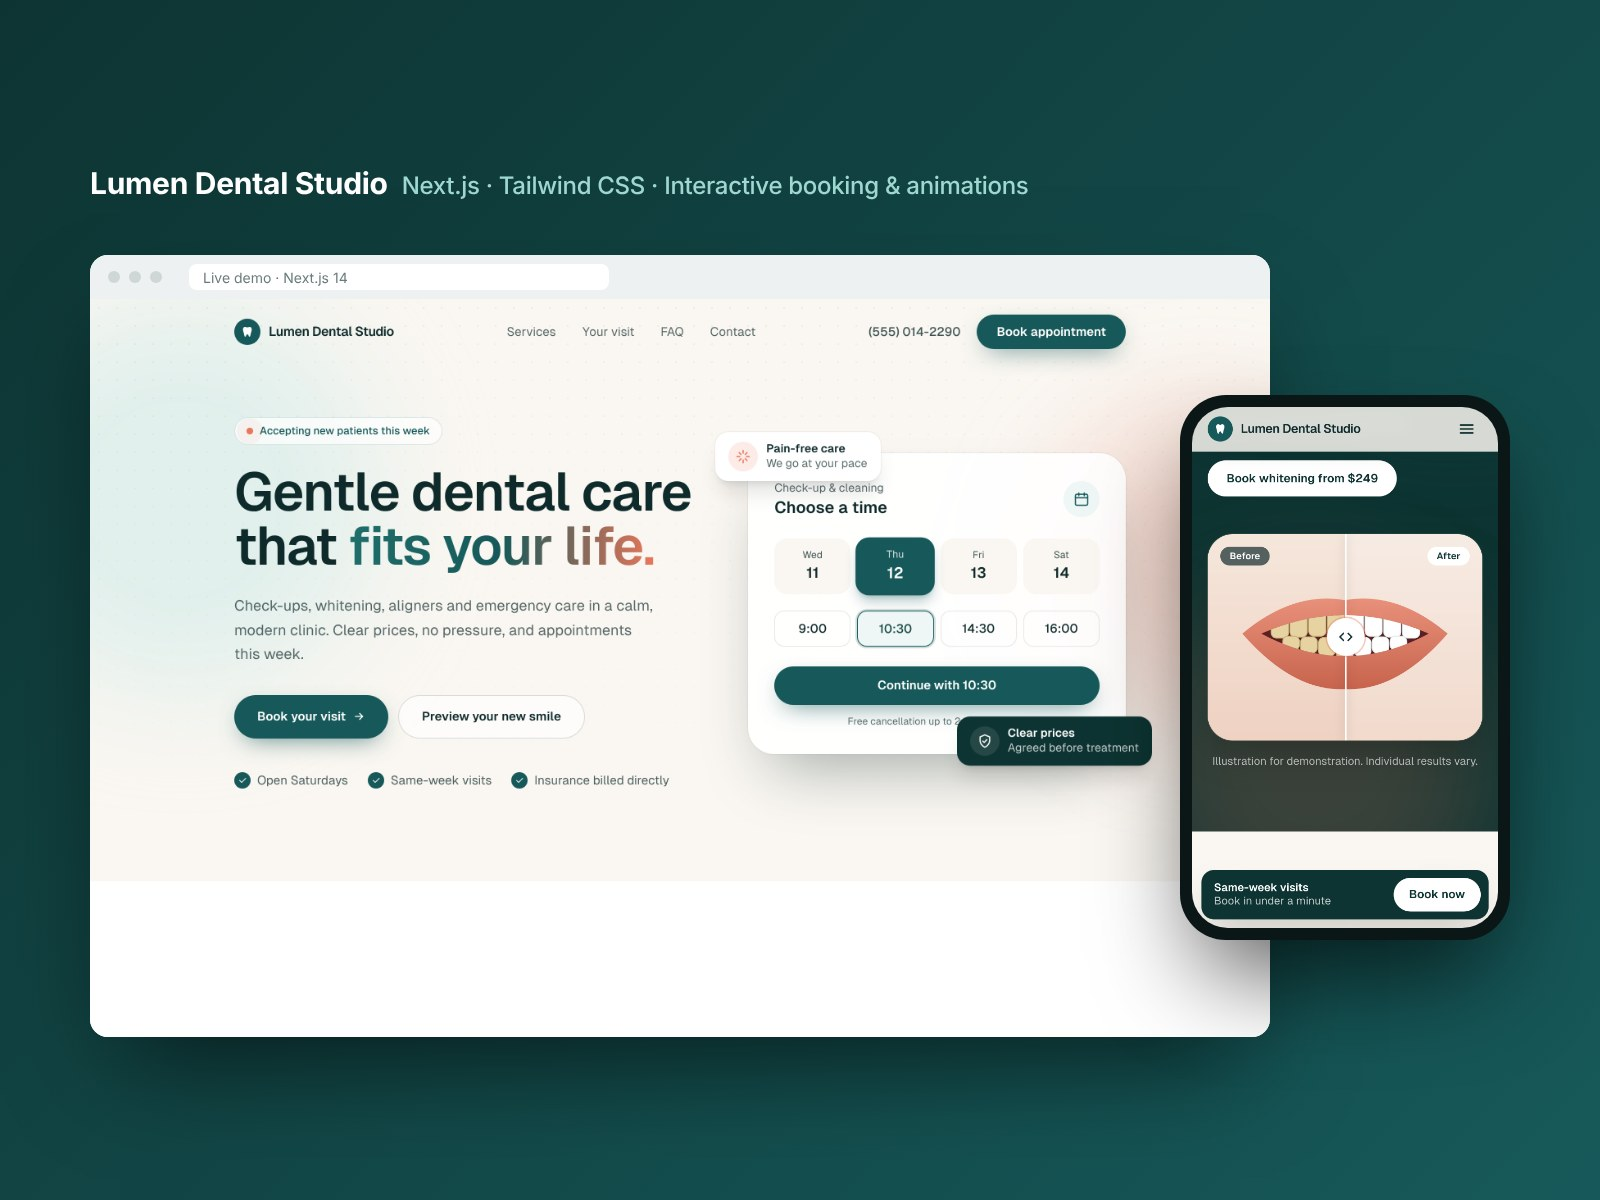
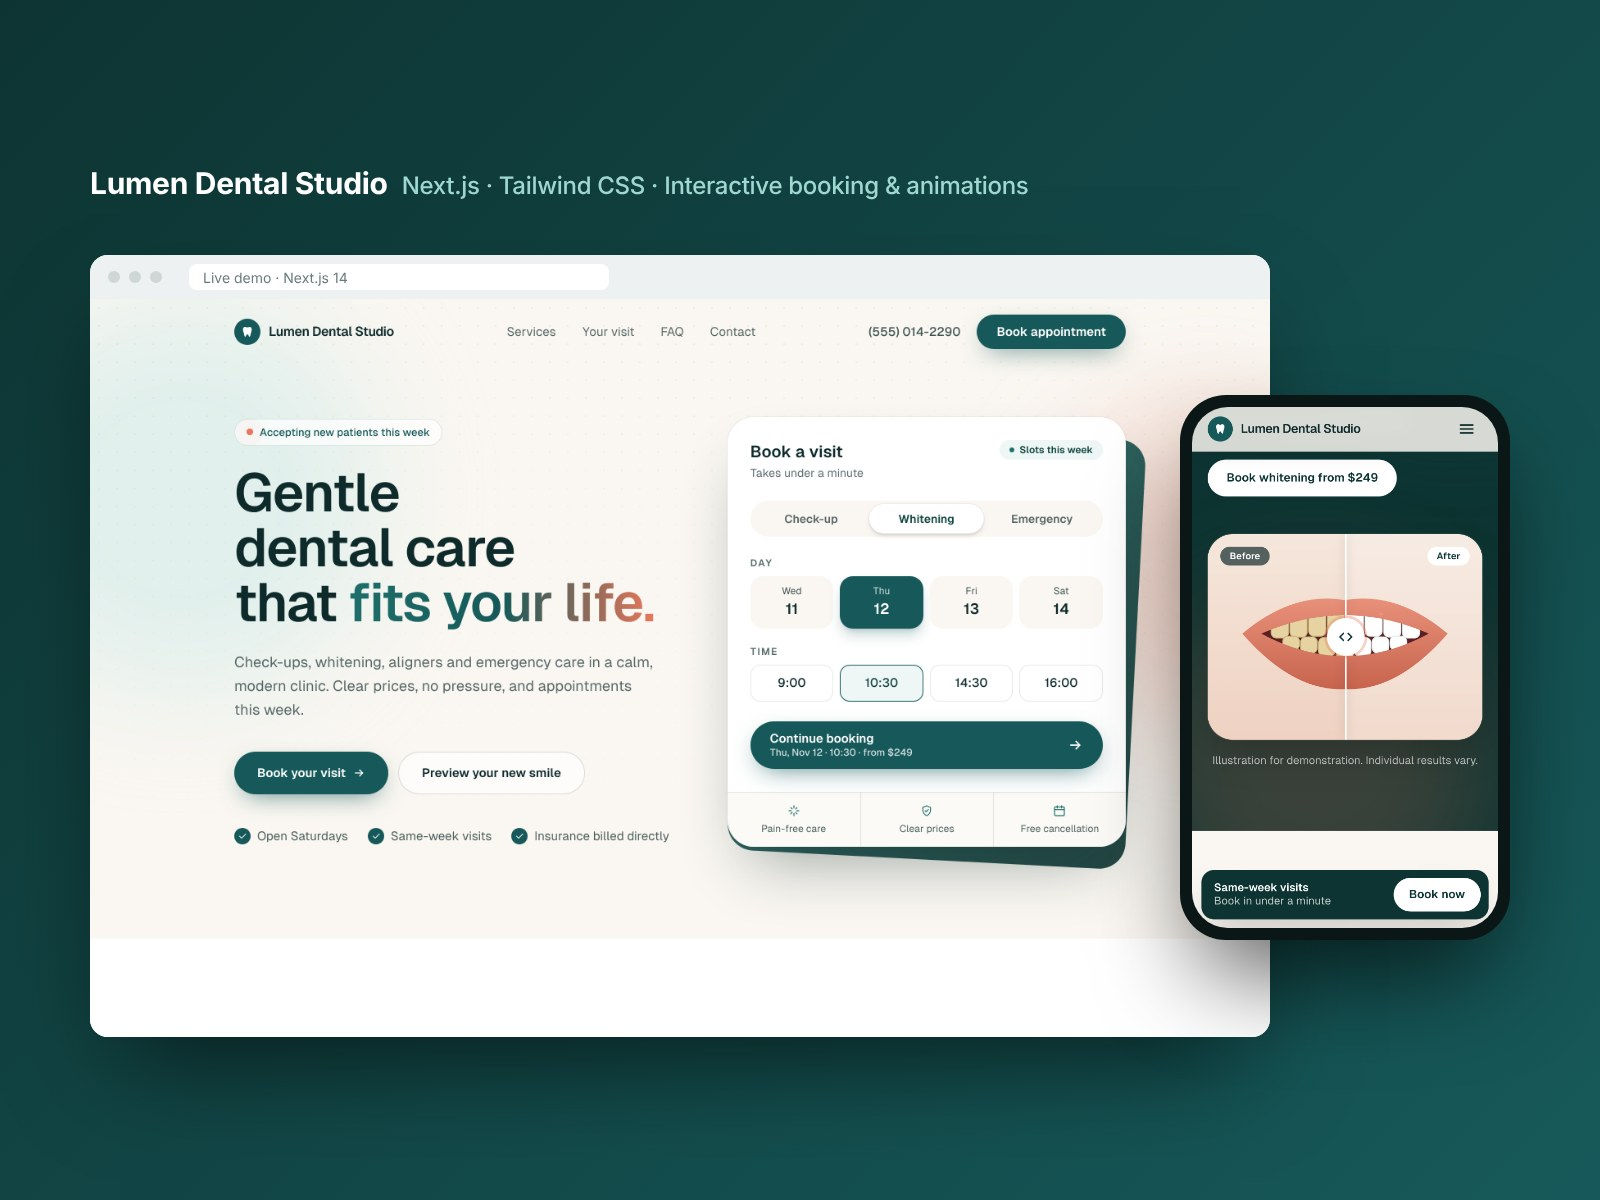
Redesign hero booking widget and fix tablet layout
- Replace floating badges that covered card content with an in-card
  trust row; add a service switcher with sliding highlight
- Pre-select the earliest slot so the call to action is always usable,
  with a live summary of day, time and starting price
- Sync widget choices (service, date, time) into the booking form
- Switch to the mobile menu and single-column hero below 1024px to
  avoid a cramped header on tablets and small laptops

Claude-Session: https://claude.ai/code/session_01AkM13mpmEo6ZpvCg3nkfXM

diff --git a/src/components/Hero.tsx b/src/components/Hero.tsx
@@ -1,7 +1,7 @@
 "use client";
 import { useEffect, useState } from "react";
 import { Icon } from "./Icon";
-import { slots } from "@/lib/content";
+import { services, slots } from "@/lib/content";
 
 function nextDays(n: number) {
   const out: Date[] = [];
@@ -16,22 +16,38 @@ function nextDays(n: number) {
 const isoLocal = (d: Date) =>
   `${d.getFullYear()}-${String(d.getMonth() + 1).padStart(2, "0")}-${String(d.getDate()).padStart(2, "0")}`;
 
+const quickServices = ["checkup", "whitening", "emergency"] as const;
+const shortName: Record<string, string> = { checkup: "Check-up", whitening: "Whitening", emergency: "Emergency" };
+
 export function Hero() {
   const [days, setDays] = useState<Date[]>([]);
   const [day, setDay] = useState(0);
-  const [slot, setSlot] = useState<string | null>(null);
-  useEffect(() => setDays(nextDays(4)), []);
+  const [svc, setSvc] = useState<(typeof quickServices)[number]>("checkup");
   const daySlots = slots.filter((_, i) => (i + day) % 4 !== 3);
+  const [slot, setSlot] = useState<string>(daySlots[0]);
 
-  const pick = (s: string) => {
-    setSlot(s);
+  useEffect(() => setDays(nextDays(4)), []);
+
+  // keep the booking form in sync with the widget
+  useEffect(() => {
     const d = days[day];
     if (!d) return;
-    window.dispatchEvent(new CustomEvent("prefill-slot", { detail: { date: isoLocal(d), time: s } }));
+    window.dispatchEvent(new CustomEvent("prefill-slot", { detail: { date: isoLocal(d), time: slot, service: svc } }));
+  }, [days, day, slot, svc]);
+
+  const chooseDay = (i: number) => {
+    setDay(i);
+    const next = slots.filter((_, j) => (j + i) % 4 !== 3);
+    if (!next.includes(slot)) setSlot(next[0]);
   };
 
+  const svcIndex = quickServices.indexOf(svc);
+  const price = services.find((x) => x.id === svc)?.from;
+  const d = days[day];
+  const dateLabel = d ? d.toLocaleDateString("en-US", { weekday: "short", day: "numeric", month: "short" }) : "";
+
   return (
-    <section id="top" className="relative -mt-16 overflow-x-clip pt-16 md:-mt-20 md:pt-20">
+    <section id="top" className="relative -mt-16 overflow-x-clip pt-16 lg:-mt-20 lg:pt-20">
       {/* animated background */}
       <div className="pointer-events-none absolute inset-0 -z-10" aria-hidden="true">
         <div className="animate-blob absolute -left-32 top-10 h-[28rem] w-[28rem] rounded-full bg-teal-100/70 blur-3xl" />
@@ -39,7 +55,7 @@ export function Hero() {
         <div className="absolute inset-0 bg-[radial-gradient(rgba(15,42,43,.07)_1px,transparent_1px)] [background-size:22px_22px] [mask-image:linear-gradient(to_bottom,black,transparent_85%)]" />
       </div>
 
-      <div className="container-site grid items-center gap-14 pb-20 pt-10 md:grid-cols-[1.1fr_.9fr] md:gap-16 md:pb-28 md:pt-16">
+      <div className="container-site grid items-center gap-14 pb-20 pt-10 lg:grid-cols-[1.05fr_.95fr] lg:gap-16 lg:pb-28 lg:pt-16">
         <div>
           <p className="animate-rise inline-flex items-center gap-2 rounded-full border border-teal-600/15 bg-white/70 px-3.5 py-1.5 text-[13px] font-medium text-teal-700 backdrop-blur">
             <span className="relative flex h-2 w-2">
@@ -74,62 +90,91 @@ export function Hero() {
           </ul>
         </div>
 
-        <div className="animate-rise relative" style={{ "--d": "250ms" } as React.CSSProperties}>
-          {/* floating chips */}
-          <div className="animate-float absolute -left-4 -top-6 z-10 hidden items-center gap-2.5 rounded-2xl bg-white px-4 py-3 shadow-xl ring-1 ring-ink/5 sm:flex md:-left-10" style={{ "--d": "-2s" } as React.CSSProperties}>
-            <span className="grid h-9 w-9 place-items-center rounded-full bg-coral/15 text-coral"><Icon name="sparkle" className="h-5 w-5" /></span>
-            <div className="text-sm leading-tight"><p className="font-semibold">Pain-free care</p><p className="text-ink/70">We go at your pace</p></div>
-          </div>
-          <div className="animate-float absolute -bottom-6 -right-3 z-10 hidden items-center gap-2.5 rounded-2xl bg-teal-900 px-4 py-3 text-white shadow-xl sm:flex md:-right-8">
-            <span className="grid h-9 w-9 place-items-center rounded-full bg-white/10"><Icon name="shield" className="h-5 w-5" /></span>
-            <div className="text-sm leading-tight"><p className="font-semibold">Clear prices</p><p className="text-white/75">Agreed before treatment</p></div>
-          </div>
-
-          <div className="relative rounded-[2rem] bg-white/90 p-6 shadow-[0_40px_80px_-30px_rgba(15,42,43,.4)] ring-1 ring-ink/5 backdrop-blur sm:p-8">
-            <div className="flex items-center justify-between">
-              <div>
-                <p className="text-sm text-ink/70">Check-up &amp; cleaning</p>
-                <p className="text-xl font-semibold">Choose a time</p>
+        {/* booking widget */}
+        <div className="animate-rise relative mx-auto w-full max-w-[30rem] lg:max-w-none" style={{ "--d": "250ms" } as React.CSSProperties}>
+          <div className="absolute inset-0 translate-x-1.5 translate-y-3 rotate-[2deg] sm:translate-x-3 sm:translate-y-4 sm:rotate-[3deg] rounded-[2rem] bg-gradient-to-br from-teal-600 to-teal-900 opacity-90" aria-hidden="true" />
+          <div className="relative overflow-hidden rounded-[2rem] bg-white shadow-[0_40px_80px_-30px_rgba(15,42,43,.45)] ring-1 ring-ink/5">
+            <div className="p-6 sm:p-7">
+              <div className="flex items-start justify-between gap-4">
+                <div>
+                  <p className="text-xl font-semibold">Book a visit</p>
+                  <p className="mt-0.5 text-sm text-ink/70">Takes under a minute</p>
+                </div>
+                <span className="inline-flex items-center gap-1.5 rounded-full bg-teal-50 px-3 py-1 text-xs font-semibold text-teal-800">
+                  <span className="h-1.5 w-1.5 rounded-full bg-teal-600" />
+                  Slots this week
+                </span>
               </div>
-              <span className="grid h-11 w-11 place-items-center rounded-full bg-teal-50 text-teal-700"><Icon name="calendar" /></span>
+
+              {/* service switcher */}
+              <div className="relative mt-6 grid grid-cols-3 rounded-full bg-cream p-1" role="radiogroup" aria-label="Service">
+                <span
+                  className="absolute inset-y-1 left-1 w-[calc((100%-0.5rem)/3)] rounded-full bg-white shadow-md ring-1 ring-ink/5 transition-transform duration-300 ease-out"
+                  style={{ transform: `translateX(${svcIndex * 100}%)` }}
+                  aria-hidden="true"
+                />
+                {quickServices.map((id) => (
+                  <button
+                    key={id}
+                    role="radio"
+                    aria-checked={svc === id}
+                    onClick={() => setSvc(id)}
+                    className={`relative z-10 rounded-full py-2 text-sm font-semibold transition-colors duration-300 ${svc === id ? "text-teal-800" : "text-ink/70 hover:text-ink"}`}
+                  >
+                    {shortName[id]}
+                  </button>
+                ))}
+              </div>
+
+              <p className="mt-6 text-xs font-semibold uppercase tracking-[0.12em] text-ink/70">Day</p>
+              <div className="mt-2 grid grid-cols-4 gap-2" role="radiogroup" aria-label="Day">
+                {(days.length ? days : Array.from({ length: 4 }, () => null)).map((dd, i) => (
+                  <button
+                    key={i}
+                    role="radio"
+                    aria-checked={day === i}
+                    onClick={() => chooseDay(i)}
+                    className={`rounded-2xl px-1 py-2.5 text-center transition duration-300 ${day === i ? "bg-teal-700 text-white shadow-lg shadow-teal-700/25" : "bg-cream hover:-translate-y-0.5 hover:bg-teal-50"}`}
+                  >
+                    <span className="block text-xs opacity-80">{dd ? dd.toLocaleDateString("en-US", { weekday: "short" }) : " "}</span>
+                    <span className="block text-lg font-semibold">{dd ? dd.getDate() : " "}</span>
+                  </button>
+                ))}
+              </div>
+
+              <p className="mt-5 text-xs font-semibold uppercase tracking-[0.12em] text-ink/70">Time</p>
+              <div key={day} className="mt-2 grid grid-cols-4 gap-2" role="radiogroup" aria-label="Time">
+                {daySlots.map((s, i) => (
+                  <button
+                    key={s}
+                    role="radio"
+                    aria-checked={slot === s}
+                    onClick={() => setSlot(s)}
+                    style={{ "--d": `${i * 40}ms` } as React.CSSProperties}
+                    className={`animate-rise rounded-xl border py-2.5 text-[15px] font-medium transition duration-200 ${slot === s ? "border-teal-700 bg-teal-50 text-teal-800" : "border-ink/10 hover:-translate-y-0.5 hover:border-teal-600"}`}
+                  >
+                    {s}
+                  </button>
+                ))}
+              </div>
+
+              <a href="#book" className="group btn-primary mt-6 w-full justify-between px-6">
+                <span className="flex flex-col items-start leading-tight">
+                  <span className="text-[15px]">Continue booking</span>
+                  <span className="text-xs font-medium text-white/80" aria-live="polite">{dateLabel ? `${dateLabel} · ${slot} · from $${price}` : " "}</span>
+                </span>
+                <svg viewBox="0 0 24 24" className="h-5 w-5 transition-transform group-hover:translate-x-1" fill="none" stroke="currentColor" strokeWidth={2} aria-hidden="true"><path d="M5 12h14M13 6l6 6-6 6" /></svg>
+              </a>
             </div>
 
-            <div className="mt-6 grid grid-cols-4 gap-2" role="tablist" aria-label="Day">
-              {(days.length ? days : Array.from({ length: 4 }, () => null)).map((d, i) => (
-                <button
-                  key={i}
-                  role="tab"
-                  aria-selected={day === i}
-                  onClick={() => { setDay(i); setSlot(null); }}
-                  className={`rounded-2xl px-1 py-3 text-center transition duration-300 ${day === i ? "scale-[1.04] bg-teal-700 text-white shadow-lg shadow-teal-700/30" : "bg-cream hover:-translate-y-0.5 hover:bg-teal-50"}`}
-                >
-                  <span className="block text-xs opacity-80">{d ? d.toLocaleDateString("en-US", { weekday: "short" }) : " "}</span>
-                  <span className="block text-lg font-semibold">{d ? d.getDate() : " "}</span>
-                </button>
+            <ul className="grid grid-cols-3 divide-x divide-ink/10 border-t border-ink/10 bg-cream/60 text-center text-xs text-ink/75">
+              {[["sparkle", "Pain-free care"], ["shield", "Clear prices"], ["calendar", "Free cancellation"]].map(([icon, label]) => (
+                <li key={label} className="flex flex-col items-center gap-1.5 px-2 py-3.5">
+                  <Icon name={icon} className="h-4 w-4 text-teal-600" />
+                  {label}
+                </li>
               ))}
-            </div>
-
-            <div key={day} className="mt-5 grid grid-cols-2 gap-2 sm:grid-cols-4">
-              {daySlots.map((s, i) => (
-                <button
-                  key={s}
-                  onClick={() => pick(s)}
-                  style={{ "--d": `${i * 50}ms` } as React.CSSProperties}
-                  className={`animate-rise rounded-xl border py-2.5 text-[15px] font-medium transition duration-200 ${slot === s ? "border-teal-700 bg-teal-50 text-teal-800 ring-2 ring-teal-700/20" : "border-ink/10 hover:-translate-y-0.5 hover:border-teal-600 hover:shadow-md"}`}
-                >
-                  {s}
-                </button>
-              ))}
-            </div>
-
-            <a
-              href="#book"
-              className={`btn-primary mt-6 w-full ${slot ? "" : "pointer-events-none !bg-ink/10 !text-ink/70 !shadow-none"}`}
-              aria-disabled={!slot}
-            >
-              {slot ? `Continue with ${slot}` : "Pick a time to continue"}
-            </a>
-            <p className="mt-3 text-center text-xs text-ink/70">Free cancellation up to 24 hours before</p>
+            </ul>
           </div>
         </div>
       </div>

diff --git a/src/components/Header.tsx b/src/components/Header.tsx
@@ -35,15 +35,15 @@ export function Header() {
         scrolled || open ? "border-b border-ink/5 bg-cream/85 shadow-[0_8px_30px_-18px_rgba(15,42,43,.35)] backdrop-blur-md" : "bg-transparent"
       }`}
     >
-      <div className={`container-site flex items-center justify-between transition-all duration-300 ${scrolled ? "h-14" : "h-16 md:h-20"}`}>
-        <a href="#top" className="group flex items-center gap-2.5 font-semibold tracking-tight">
+      <div className={`container-site flex items-center justify-between transition-all duration-300 ${scrolled ? "h-14" : "h-16 lg:h-20"}`}>
+        <a href="#top" className="group flex shrink-0 items-center gap-2.5 whitespace-nowrap font-semibold tracking-tight">
           <span className="grid h-8 w-8 place-items-center rounded-full bg-teal-700 text-white transition duration-500 group-hover:rotate-[20deg] group-hover:bg-coral">
             <svg viewBox="0 0 24 24" className="h-4 w-4" fill="currentColor" aria-hidden="true"><path d="M8 3c-2.5 0-4 2-4 4.6 0 2.6 1 4.4 1.6 7 .5 2.4 1 6.4 2.6 6.4 1.5 0 1.6-4.5 3.8-4.5s2.3 4.5 3.8 4.5c1.6 0 2.1-4 2.6-6.4.6-2.6 1.6-4.4 1.6-7C20 5 18.5 3 16 3c-1.7 0-2.6 1-4 1S9.7 3 8 3z"/></svg>
           </span>
           {clinic.name}
         </a>
 
-        <nav className="hidden items-center gap-8 text-[15px] md:flex" aria-label="Main">
+        <nav className="hidden items-center gap-8 text-[15px] lg:flex" aria-label="Main">
           {links.map((l) => (
             <a key={l.href} href={l.href} className="group relative py-1 text-ink/70 transition hover:text-ink">
               {l.label}
@@ -52,13 +52,13 @@ export function Header() {
           ))}
         </nav>
 
-        <div className="hidden items-center gap-5 md:flex">
-          <a href={clinic.phoneHref} className="text-[15px] font-medium text-ink/80 hover:text-ink">{clinic.phone}</a>
+        <div className="hidden items-center gap-5 lg:flex">
+          <a href={clinic.phoneHref} className="whitespace-nowrap text-[15px] font-medium text-ink/80 hover:text-ink">{clinic.phone}</a>
           <a href="#book" className="btn-primary py-2.5">Book appointment</a>
         </div>
 
         <button
-          className="grid h-10 w-10 place-items-center rounded-full md:hidden"
+          className="grid h-10 w-10 place-items-center rounded-full lg:hidden"
           onClick={() => setOpen((v) => !v)}
           aria-expanded={open}
           aria-controls="mobile-menu"
@@ -70,8 +70,8 @@ export function Header() {
 
     </header>
     {open && (
-        <div id="mobile-menu" className={`fixed inset-x-0 bottom-0 z-50 overflow-y-auto bg-cream md:hidden ${scrolled ? "top-14" : "top-16"}`}>
-          <nav className="container-site flex flex-col gap-1 py-6" aria-label="Mobile">
+        <div id="mobile-menu" className={`fixed inset-x-0 bottom-0 z-50 overflow-y-auto bg-cream lg:hidden ${scrolled ? "top-14" : "top-16"}`}>
+          <nav className="container-site flex max-w-xl flex-col gap-1 py-6" aria-label="Mobile">
             {links.map((l, i) => (
               <a key={l.href} href={l.href} onClick={() => setOpen(false)} style={{ "--d": `${i * 60}ms` } as React.CSSProperties} className="animate-rise rounded-xl px-2 py-3 text-2xl font-medium hover:bg-teal-50">
                 {l.label}

diff --git a/src/app/globals.css b/src/app/globals.css
@@ -8,7 +8,7 @@ body { @apply bg-cream text-ink antialiased; }
 
 @layer components {
   .container-site { @apply mx-auto w-full max-w-site px-5 sm:px-8; }
-  .btn { @apply relative inline-flex items-center justify-center gap-2 overflow-hidden rounded-full px-6 py-3 text-[15px] font-semibold transition duration-300 focus-visible:outline focus-visible:outline-2 focus-visible:outline-offset-2 focus-visible:outline-teal-600 active:scale-[.97]; }
+  .btn { @apply relative inline-flex whitespace-nowrap items-center justify-center gap-2 overflow-hidden rounded-full px-6 py-3 text-[15px] font-semibold transition duration-300 focus-visible:outline focus-visible:outline-2 focus-visible:outline-offset-2 focus-visible:outline-teal-600 active:scale-[.97]; }
   .btn-primary { @apply btn bg-teal-700 text-white shadow-[0_10px_30px_-12px_rgba(23,89,90,.8)] hover:-translate-y-0.5 hover:bg-teal-800 hover:shadow-[0_16px_34px_-12px_rgba(23,89,90,.9)]; }
   .btn-primary::after { content: ""; position: absolute; inset: 0; background: linear-gradient(110deg, transparent 30%, rgba(255,255,255,.28) 50%, transparent 70%); transform: translateX(-120%); transition: transform .7s ease; }
   .btn-primary:hover::after { transform: translateX(120%); }

diff --git a/src/components/BookingForm.tsx b/src/components/BookingForm.tsx
@@ -19,8 +19,13 @@ export function BookingForm() {
 
   useEffect(() => {
     const onPrefill = (e: Event) => {
-      const { date, time } = (e as CustomEvent<{ date: string; time: string }>).detail;
-      setValues((v) => ({ ...v, date, time: slots.includes(time) ? time : v.time }));
+      const { date, time, service } = (e as CustomEvent<{ date: string; time: string; service?: string }>).detail;
+      setValues((v) => ({
+        ...v,
+        date,
+        time: slots.includes(time) ? time : v.time,
+        service: service && services.some((s) => s.id === service) ? service : v.service,
+      }));
     };
     const onServiceClick = (e: MouseEvent) => {
       const el = (e.target as HTMLElement).closest<HTMLElement>("[data-service]");

diff --git a/README.md b/README.md
@@ -15,7 +15,7 @@ Built with **Next.js 14**, **React 18**, **TypeScript** and **Tailwind CSS**.
 - **Interactive smile preview.** A before/after whitening slider visitors can drag, tap or control with the keyboard, with a short demo sweep when it scrolls into view.
 - **Smooth, purposeful animation.** Staggered hero entrance, soft animated background shapes, floating info cards, scroll-reveal sections and hover effects, all switched off automatically for visitors who prefer reduced motion.
 - **One-click booking from anywhere.** Every service card has a "Book" button that pre-selects that service in the form; a sticky booking bar appears on phones.
-- **Interactive time picker.** Visitors choose a day and time in the hero; the booking form is filled in automatically.
+- **Quick-book widget.** Visitors switch between services, pick a day and time, and see a live summary with the starting price. The earliest slot is pre-selected, and every choice is carried into the full booking form.
 - **Booking form with validation.** Checks name, phone, email and date (no past dates, no Sundays), shows accessible inline errors, moves focus to the first problem and ends with a confirmation screen.
 - **Accessible mobile menu and FAQ.** Full-screen menu with `Escape` to close and scroll lock; animated FAQ accordion with proper ARIA attributes.
 - **Tested for quality.** Zero WCAG 2 AA issues in an axe-core audit, no horizontal scrolling from 320px to 1920px, full keyboard support.
@@ -66,7 +66,7 @@ src/
 │   └── globals.css      # Tailwind layers and shared component classes
 ├── components/
 │   ├── Header.tsx       # sticky header and mobile menu
-│   ├── Hero.tsx         # animated headline and interactive time picker
+│   ├── Hero.tsx         # animated headline and quick-book widget
 │   ├── Services.tsx     # services grid with quick-book buttons
 │   ├── SmileSlider.tsx  # before/after whitening comparison
 │   ├── Visit.tsx        # first-visit steps
